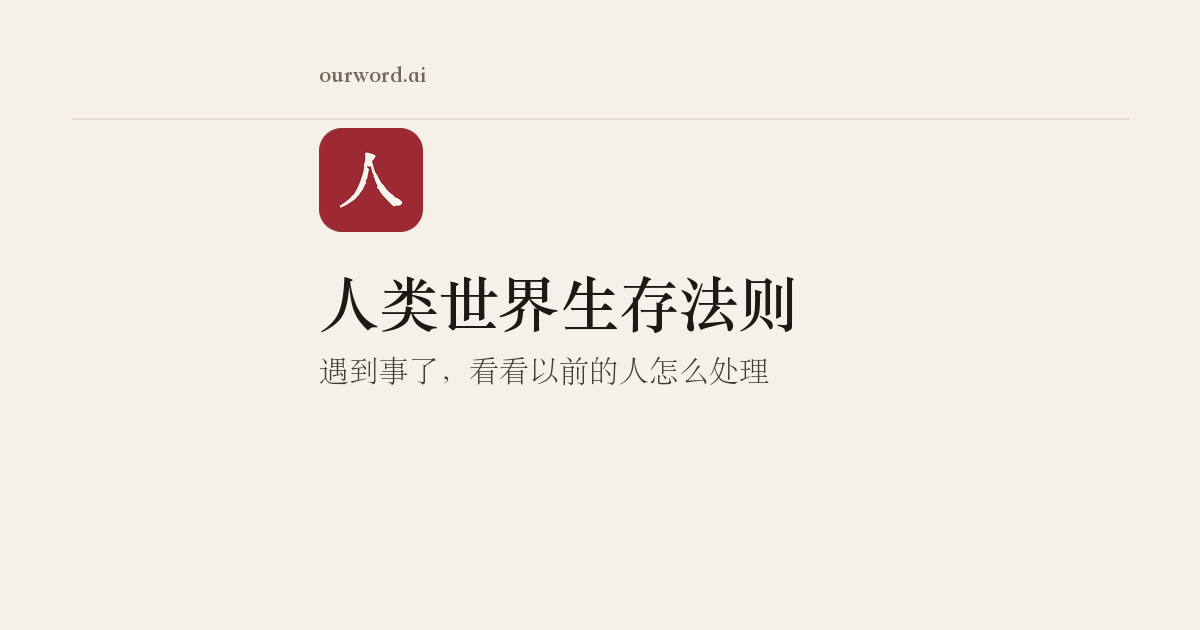
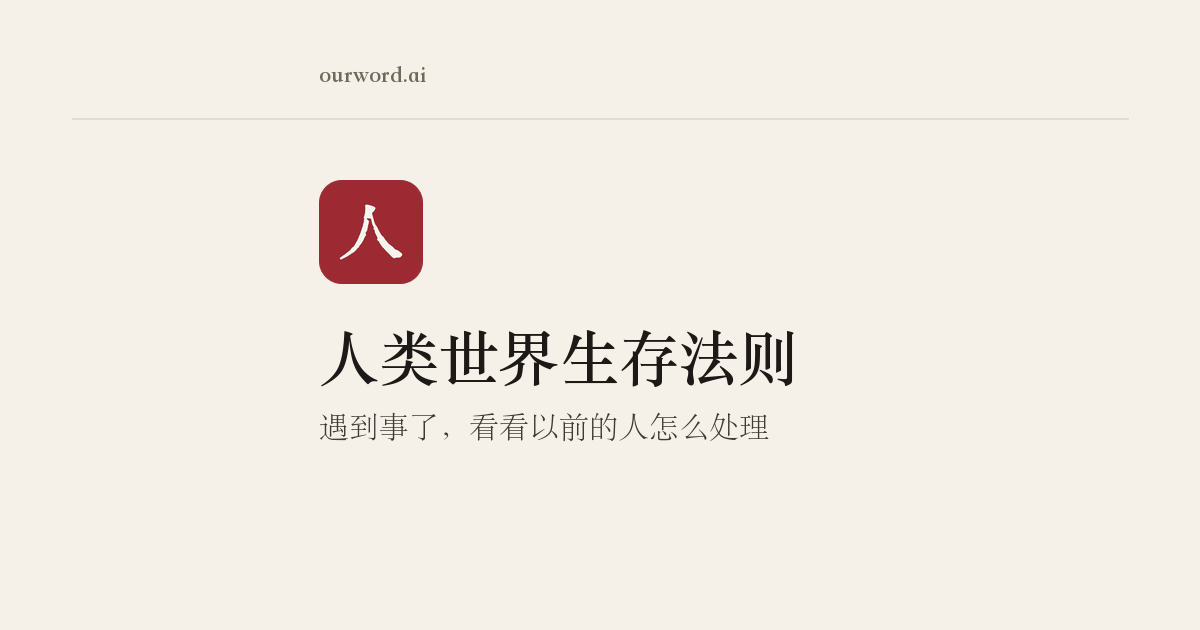
首页分享卡：印章离分割线太近（10px），整块下移居中

Changed region(s): [[0.2467, 0.181, 0.6783, 0.6333], [0.37, 0.6635, 0.6475, 0.6937], [0.2467, 0.6635, 0.3392, 0.6937]]

diff --git a/scripts/gen_og.py b/scripts/gen_og.py
@@ -149,9 +149,10 @@ def render_home(out):
     img = Image.new("RGB", (W, H), PAPER)
     d = ImageDraw.Draw(img)
     ic = ICON.resize((104, 104), Image.LANCZOS)
-    img.paste(ic, (TX0, 128), ic)
-    d.text((TX0, 258), "人类世界生存法则", font=F("b", 60), fill=INK)
-    d.text((TX0, 348), "遇到事了，看看以前的人怎么处理", font=F("l", 30), fill=INK2)
+    # 印章离分割线 62px，整块（印章 + 标题 + 口号）在竖向居中
+    img.paste(ic, (TX0, 180), ic)
+    d.text((TX0, 312), "人类世界生存法则", font=F("b", 60), fill=INK)
+    d.text((TX0, 404), "遇到事了，看看以前的人怎么处理", font=F("l", 30), fill=INK2)
     d.line([(72, 118), (W - 72, 118)], fill=RULE, width=2)
     d.text((TX0, 57), "ourword.ai", font=F("b", 24), fill=MUTED)
     save(img, out)
